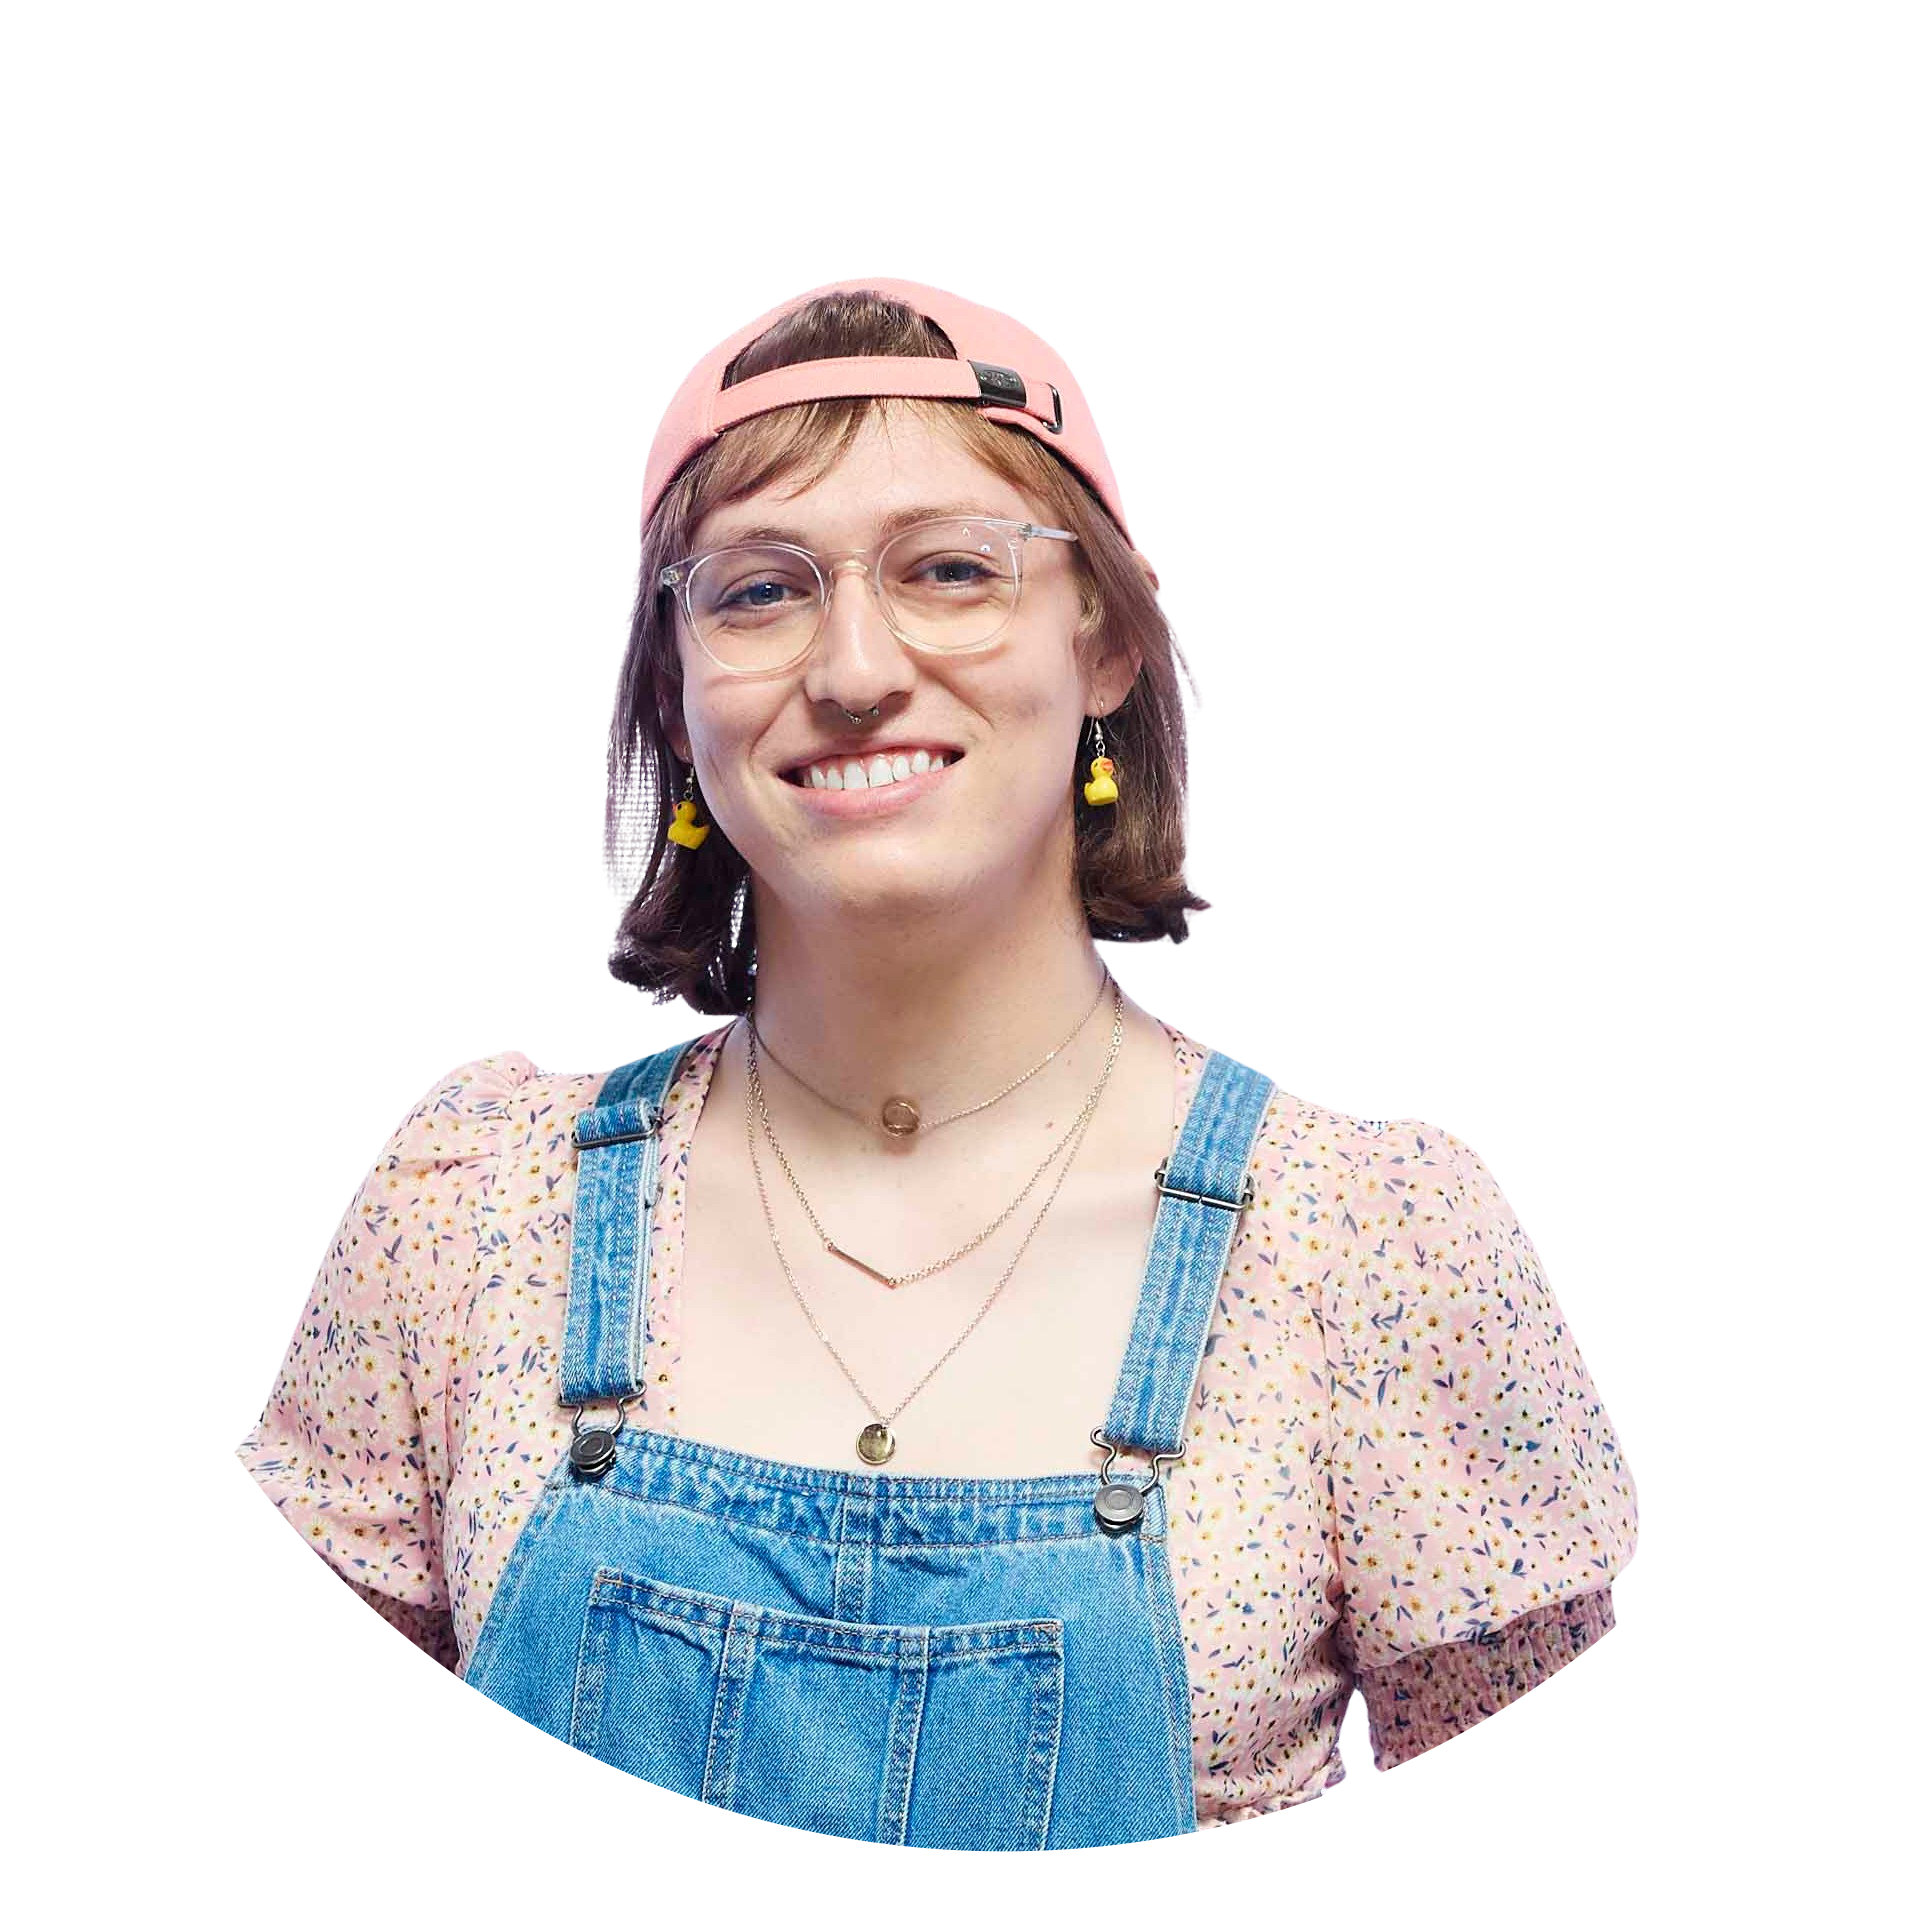
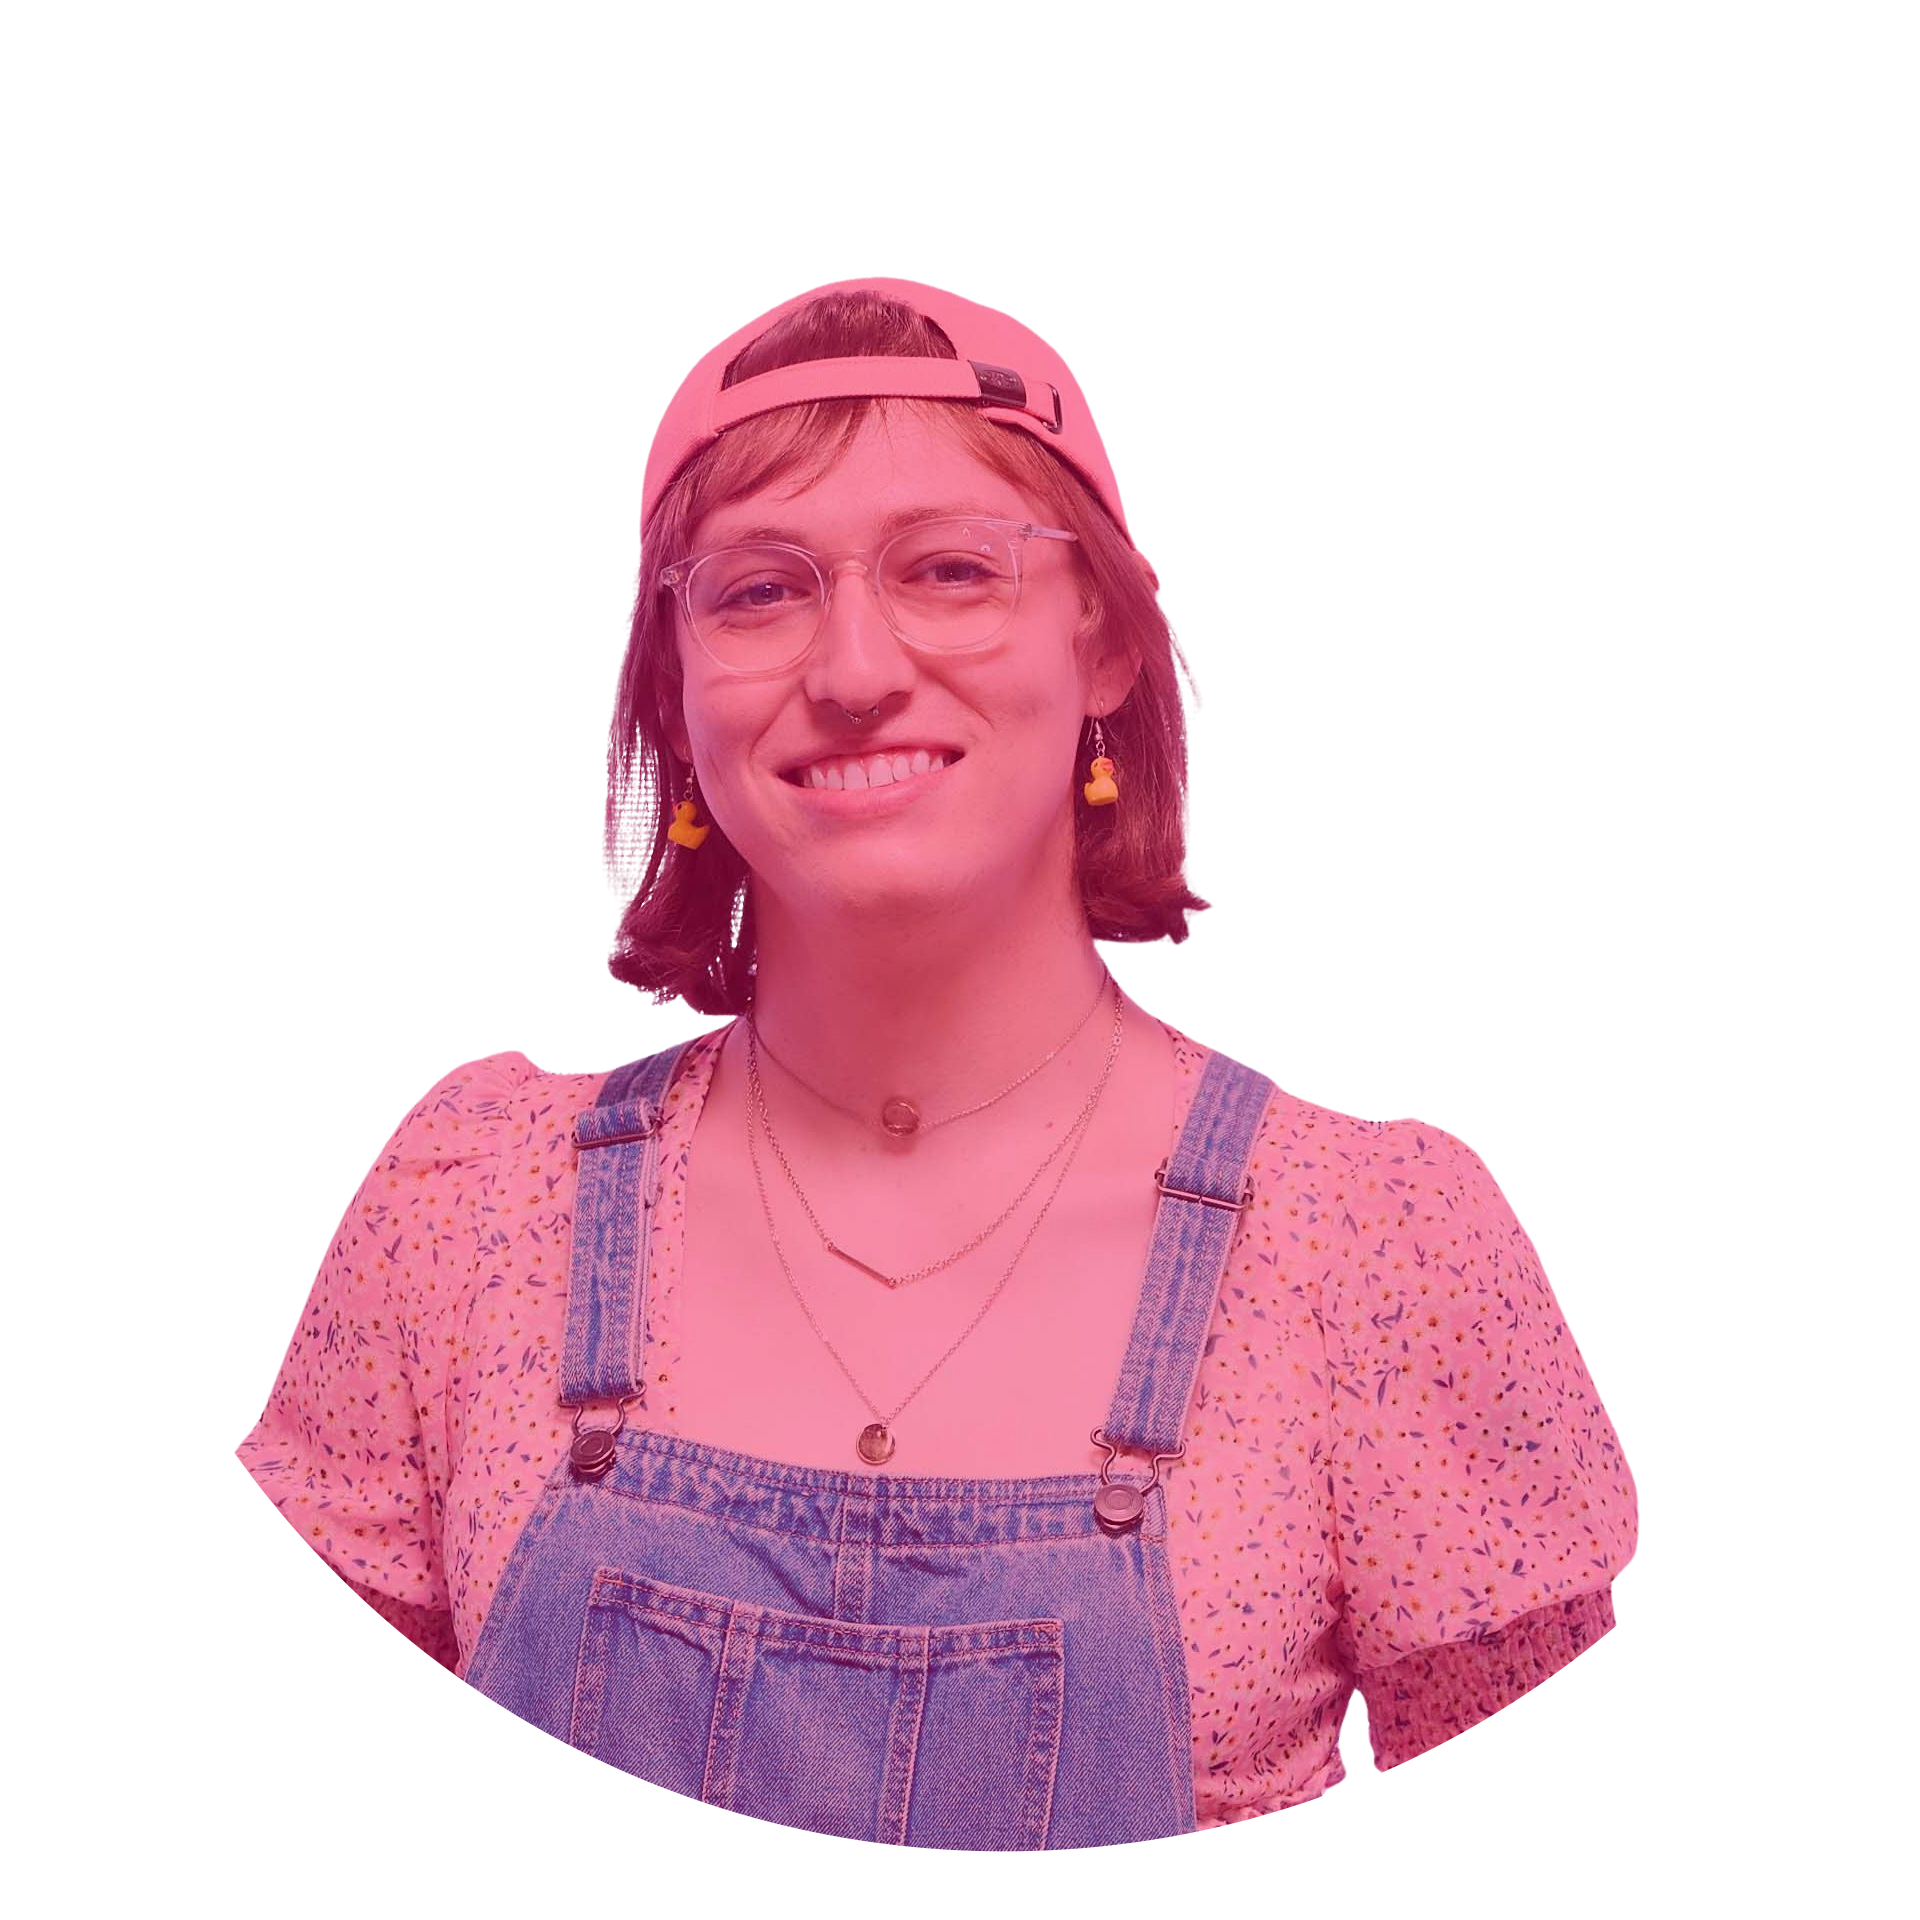
More colours

diff --git a/src/_globalColor.scss b/src/_globalColor.scss
@@ -3,14 +3,14 @@ Certain colors are used for different and multiply types of elements.
 For greater control over colors visit each components .scss file. */
 
 // button colors
-$buttonColor: #55198b;
-$buttonHover: #8c43ce;
+$buttonColor: #f30054;
+$buttonHover: #de5785;
 $topButtonHover: #000;
 
 // text colors light theme
 $titleColor: #000000;
 $textColor: #000000;
-$subTitle: #868e96;
+$subTitle: #966e81;
 $cardSubtitle: #666666;
 $talkCardSubTitle: #fffffff;
 $blogCardTitleColor: #262626;
@@ -60,13 +60,13 @@ $experienceCardBannerLG: linear-gradient(
 // borders
 $progressBarBackground: rgb(243, 239, 239);
 $lightBorder1: rgba(211, 211, 211, 0.397);
-$educationCardBorder: #a9a7f9;
+$educationCardBorder: #fc9dbe;
 
 // hovers
 $achievementCertificateCardHoverDark: rgba(255, 255, 255, 0.2);
 $blogCardHoverSmallColor: rgba(255, 255, 255, 0.8);
 $headerHoverBG: #f4f4f4;
-$contactDetailHoverTS: #b5b5b5;
+$contactDetailHoverTS: #f30054;
 
 // misc backgrounds
 $progressBarSpanBG: #aaa5ff;
@@ -74,7 +74,7 @@ $iconBackground: #333;
 $appHeaderBG: #282c34;
 
 // misc colors
-$skillsColor: #645beb;
+$skillsColor: #f30054;
 $appLink: #09d3ac;
 
 // social media icons

diff --git a/src/containers/contact/Contact.scss b/src/containers/contact/Contact.scss
@@ -28,9 +28,9 @@
 
 .contact-detail:hover,
 .contact-detail-email:hover {
-  color: $textColor;
-  text-shadow: 2px 1px 2px $contactDetailHoverTS;
-  transition: all 0.3s;
+    color: $textColorDark;
+    text-shadow: 1px 1px 1px $contactDetailHoverTS;
+    transition: all 0.3s;
 }
 
 .contact-subtitle {
